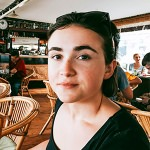
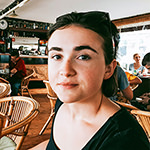
Style header

diff --git a/style/style.css b/style/style.css
@@ -4,6 +4,15 @@ html {
 header {
 	text-align: center;
 	padding-top: 72px;
+	background-image: linear-gradient(to top, #f3e7e9 0%, #e3eeff 99%, #e3eeff 100%); 
+	color: #494850;
+}
+header > div {
+	align-content: center;
+	height: 100%;
+}
+header img {
+	border-radius: 50%;
 }
 hr {
 	max-width: 50px;
@@ -20,6 +29,9 @@ section, footer {
 }
 
 /*From Bootstrap: */
+.vh-100 {
+  height: 100vh;
+}
 .img-fluid {
   max-width: 100%;
   height: auto;
@@ -219,21 +231,21 @@ section, footer {
 }
 @media (min-width: 992px) {
   #mainNav {
-    box-shadow: none;
-    background-color: transparent;
+/*    box-shadow: none;
+    background-color: transparent;*/
   }
   #mainNav .navbar-brand {
-    color: rgba(255, 255, 255, 0.7);
+    /*color: rgba(255, 255, 255, 0.7);*/
   }
   #mainNav .navbar-brand:hover {
-    color: #fff;
+    /*color: #fff;*/
   }
   #mainNav .navbar-nav .nav-item .nav-link {
-    color: rgba(255, 255, 255, 0.7);
+    /*color: rgba(255, 255, 255, 0.7);*/
     padding: 0 1rem;
   }
   #mainNav .navbar-nav .nav-item .nav-link:hover {
-    color: #fff;
+    /*color: #fff;*/
   }
   #mainNav .navbar-nav .nav-item:last-child .nav-link {
     padding-right: 0;

diff --git a/index.html b/index.html
@@ -25,7 +25,7 @@
             </div>
         </div>
     </nav>
-    <header class="container-fluid">
+    <header class="container-fluid vh-100">
         <div class="row">
             <div class="col-12">
                 <picture>
@@ -294,6 +294,7 @@
     <script type="text/javascript">
         const navToggle = document.querySelector('.navbar-toggler');
         const navLinks = document.querySelectorAll('.nav-link');
+        const navScrolled = document.querySelectorAll('.navbar-scrolled');
 
         navToggle.addEventListener('click', () => {
             document.body.classList.toggle('nav-open');
